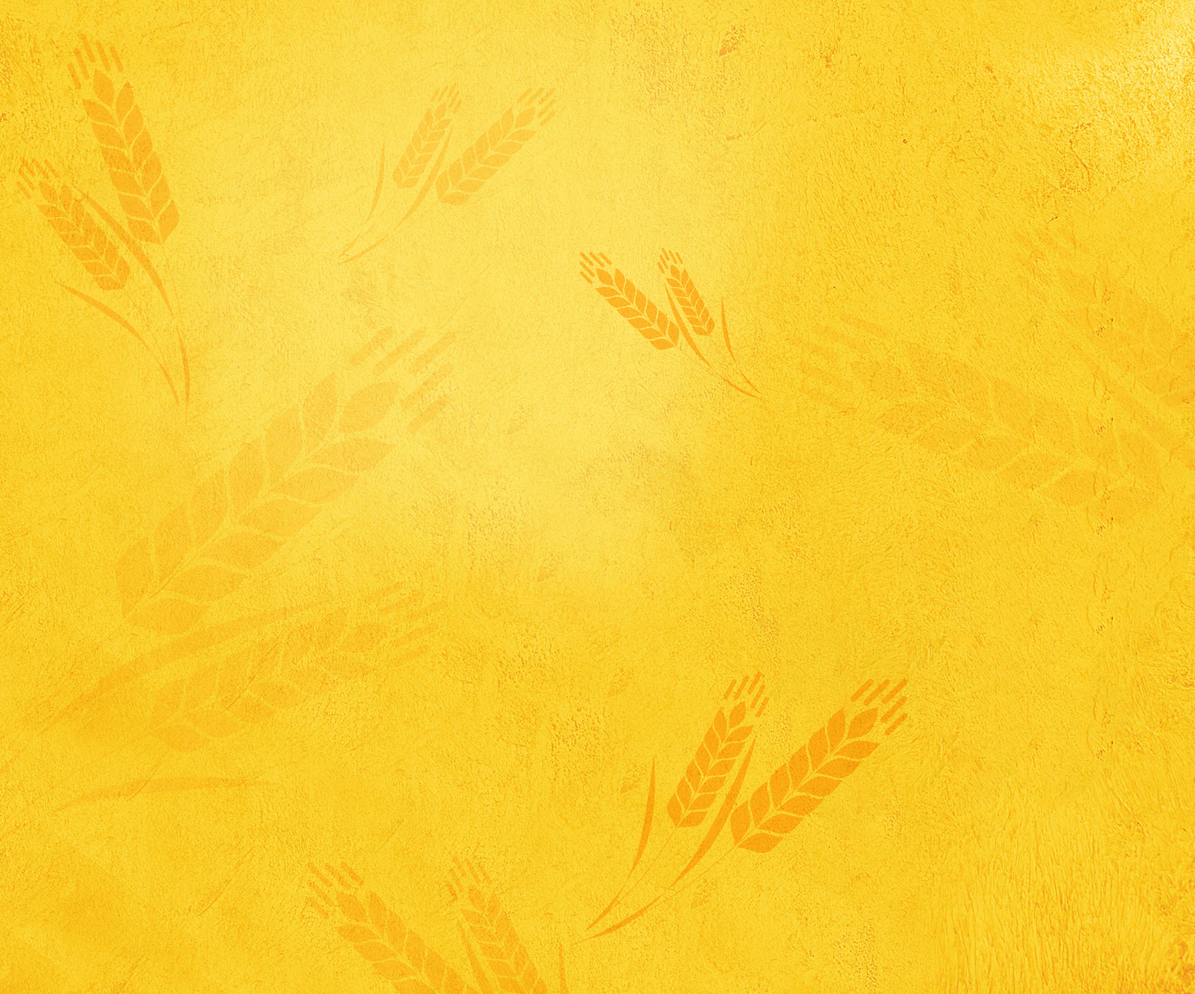
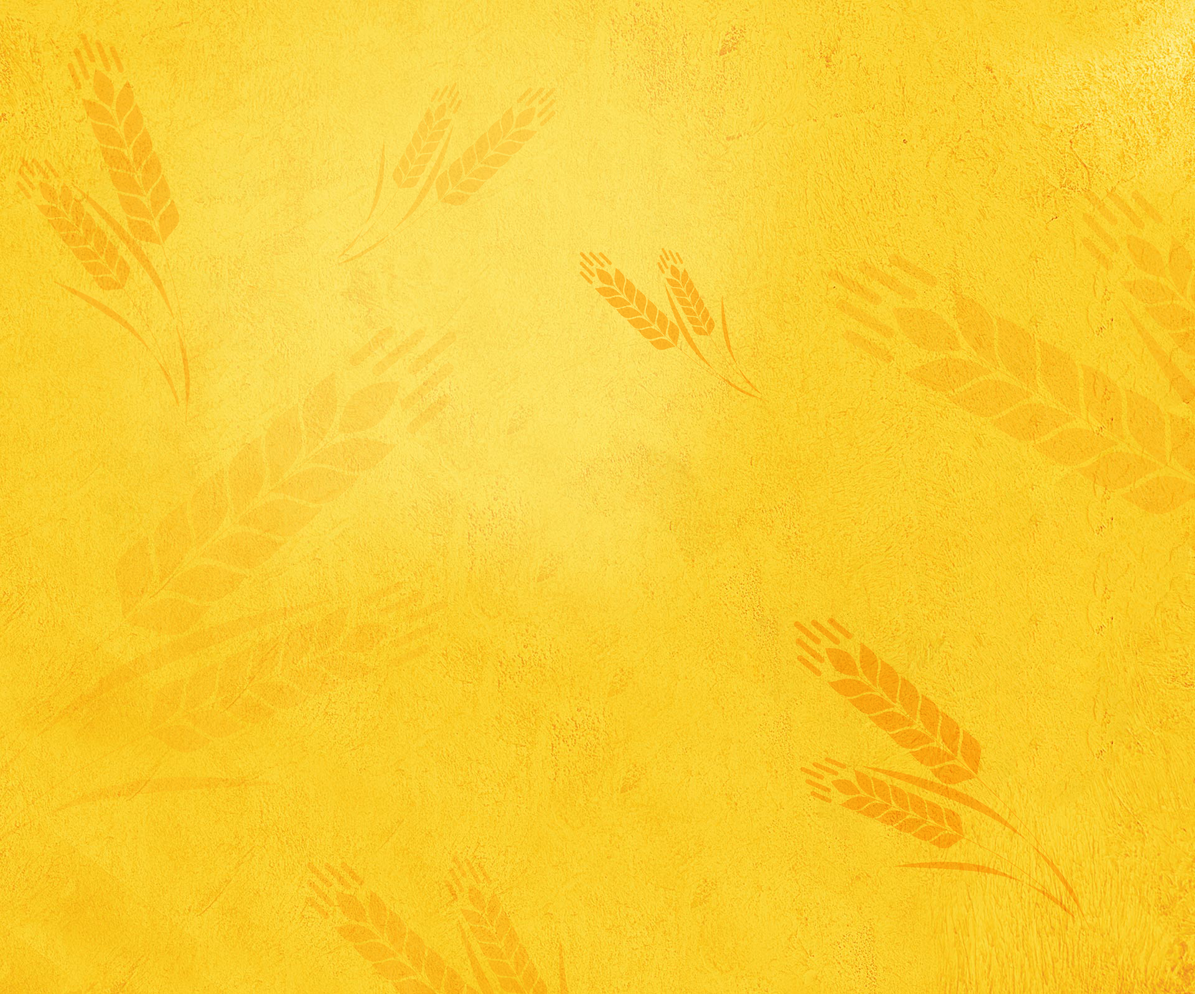
dissolve animation implementation to btn--cta

Changed region(s): [[0.5312, 0.6133, 0.8438, 0.8892], [0.875, 0.8586, 0.9062, 0.9199], [0.5, 0.9199, 0.5312, 0.9506]]

diff --git a/css/style.css b/css/style.css
@@ -192,8 +192,8 @@ table {
 }
 
 @media (prefers-reduced-motion) {
-  .btn-cta {
-    animation: none;
+  .btn--cta {
+    animation-name: dissolve;
   }
 }
 @keyframes float {
@@ -201,7 +201,7 @@ table {
     transform: translatey(0px);
   }
   50% {
-    transform: translatey(-7px);
+    transform: translatey(5px);
   }
   100% {
     transform: translatey(0px);
@@ -274,7 +274,7 @@ table {
   background-image: url("../img/stripe-bottom.png"), url("../img/header-background-2.jpg");
   background-size: contain, cover;
   background-repeat: no-repeat;
-  background-position: bottom, center;
+  background-position: bottom, 20%;
 }
 @media screen and (min-width: 75em) {
   .header {

diff --git a/sass/base/_animations.scss b/sass/base/_animations.scss
@@ -1,6 +1,6 @@
 @media (prefers-reduced-motion) {
-  .btn-cta {
-    animation: none;
+  .btn--cta {
+    animation-name: dissolve;
   }
 }
 
@@ -9,7 +9,7 @@
     transform: translatey(0px);
   }
   50% {
-    transform: translatey(-7px);
+    transform: translatey(5px);
   }
   100% {
     transform: translatey(0px);

diff --git a/sass/sections/_header.scss b/sass/sections/_header.scss
@@ -18,7 +18,7 @@
     url("../img/header-background-2.jpg");
   background-size: contain, cover;
   background-repeat: no-repeat;
-  background-position: bottom, center;
+  background-position: bottom, 20%;
 
   @media screen and (min-width: $bp-xl) {
     min-height: 100vh;
